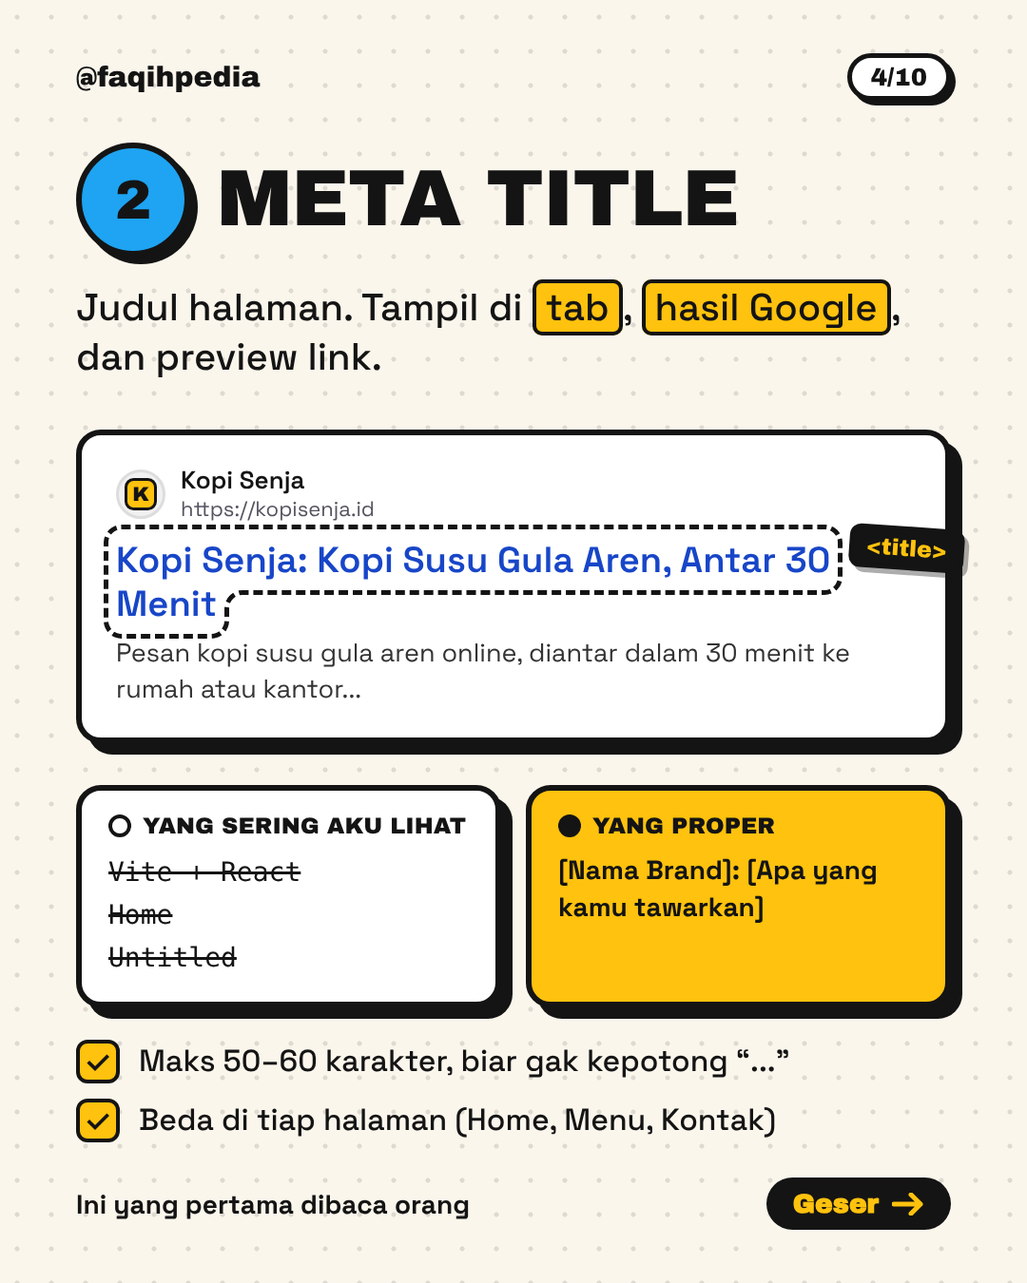
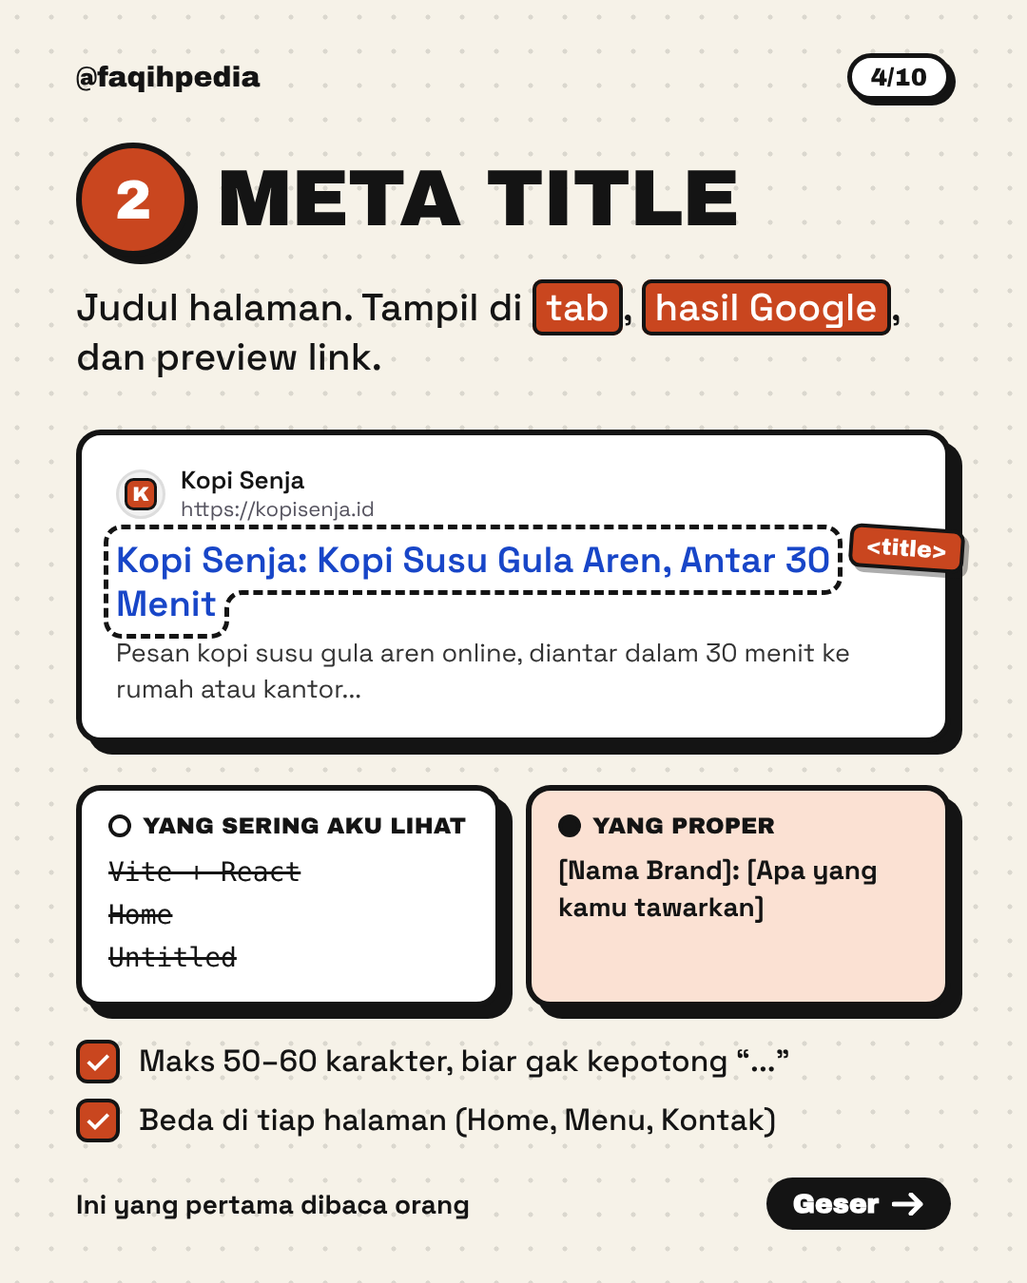
Carousel: cream + burnt-orange palette, new cover with fanned example cards
Claude-Session: https://claude.ai/code/session_018xRo3amBKB69FesK9psCXM

diff --git a/carousel-meta-tags/index.html b/carousel-meta-tags/index.html
@@ -11,18 +11,18 @@
 
 /*
   Palette: one accent only.
-  Retro-pop palette: cream base, yellow as the main accent, blue + red-orange as support.
-  All text is ink (or yellow/cream on ink): ink on yellow ~12:1, on blue ~7:1, on red ~5:1.
+  Warm minimal palette: cream base, ink text, one burnt-orange accent (+ a light orange tint for surfaces).
+  Text on orange is always white and large; small text sits on cream/white/tint (ink, ~15:1+).
   The only other colour is the link blue inside the UI mocks, because that is what real chat / search UIs look like.
 */
 :root {
-  --bg: #FBF6EC;
-  --bg2: #CDEBFF;
-  --blue: #1EA4F2;
-  --red: #EE4B2B;
+  --bg: #F6F2E8;
+  --bg2: #FBE1D3;
+  --cream2: #E9E2D0;
+  --acc: #C9461F;
+  --acc-l: #FF9466;
   --ink: #141414;
   --white: #FFFFFF;
-  --yellow: #FFC20E;
   --muted: #55535F;
   --link: #1846C8;
   --b: 6px;
@@ -40,44 +40,42 @@ body { background: #222; display: flex; flex-direction: column; align-items: cen
   padding: 150px 80px 130px;
   display: flex; flex-direction: column;
 }
-.slide.red { background-color: var(--red); }
-.slide.yellow { background-color: var(--yellow); background-image: radial-gradient(rgba(20,20,20,.14) 2.5px, transparent 2.6px); }
+.slide.plain { background-image: none; }
 
 /* chrome: top + bottom bars */
 .top { position: absolute; top: 56px; left: 80px; right: 80px; display: flex; justify-content: space-between; align-items: center; }
 .handle { font-family: var(--head); font-size: 30px; }
 .count { font-family: var(--head); font-size: 26px; background: var(--white); border: 5px solid var(--ink); border-radius: 999px; padding: 6px 20px; box-shadow: 5px 5px 0 var(--ink); }
 .bottom { position: absolute; bottom: 56px; left: 80px; right: 80px; display: flex; justify-content: space-between; align-items: center; font-weight: 700; font-size: 28px; }
-.swipe { font-family: var(--head); font-size: 28px; background: var(--ink); color: var(--yellow); border-radius: 999px; padding: 12px 28px; display: flex; gap: 14px; align-items: center; }
+.swipe { font-family: var(--head); font-size: 28px; background: var(--ink); color: var(--white); border-radius: 999px; padding: 12px 28px; display: flex; gap: 14px; align-items: center; }
 
 /* blocks */
 .box { background: var(--white); border: var(--b) solid var(--ink); border-radius: 26px; box-shadow: 12px 12px 0 var(--ink); padding: 30px 36px; }
 .sticker { display: inline-block; font-family: var(--head); text-transform: uppercase; border: 5px solid var(--ink); border-radius: 16px; box-shadow: 7px 7px 0 var(--ink); padding: 10px 24px; font-size: 34px; white-space: nowrap; background: var(--white); }
-.sticker.dark { background: var(--ink); color: var(--yellow); }
-.mark { background: var(--yellow); color: var(--ink); border: 4px solid var(--ink); border-radius: 10px; padding: 0 10px; box-decoration-break: clone; -webkit-box-decoration-break: clone; }
-.mark.inv { background: var(--ink); color: var(--yellow); }
+.sticker.dark { background: var(--ink); color: var(--white); }
+.mark { background: var(--acc); color: var(--white); border: 4px solid var(--ink); border-radius: 10px; padding: 0 10px; box-decoration-break: clone; -webkit-box-decoration-break: clone; }
 
 h1 { font-family: var(--head); font-weight: 400; font-size: 100px; line-height: 1.04; letter-spacing: -1px; text-transform: uppercase; }
 h2 { font-family: var(--head); font-weight: 400; font-size: 84px; line-height: 1.04; text-transform: uppercase; letter-spacing: -1px; }
 .lead { font-size: 40px; line-height: 1.3; font-weight: 500; }
 .small { font-size: 30px; line-height: 1.35; }
-.num { width: 120px; height: 120px; border: var(--b) solid var(--ink); border-radius: 50%; background: var(--yellow); box-shadow: 8px 8px 0 var(--ink); font-family: var(--head); font-size: 58px; display: grid; place-items: center; flex: none; }
+.num { width: 120px; height: 120px; border: var(--b) solid var(--ink); border-radius: 50%; background: var(--acc); color: var(--white); box-shadow: 8px 8px 0 var(--ink); font-family: var(--head); font-size: 58px; display: grid; place-items: center; flex: none; }
 .row { display: flex; gap: 28px; align-items: center; }
 .mono { font-family: "DejaVu Sans Mono", ui-monospace, monospace; }
 .code { background: var(--ink); color: var(--white); border-radius: 18px; padding: 22px 28px; font-size: 25px; line-height: 1.55; font-family: "DejaVu Sans Mono", ui-monospace, monospace; border: var(--b) solid var(--ink); box-shadow: 10px 10px 0 rgba(20,20,20,.3); }
 .code .a { color: #8FD3FF; }
-.code .s { color: var(--yellow); }
-.tag { position: absolute; font-family: var(--head); font-size: 24px; background: var(--ink); color: var(--yellow); border: 4px solid var(--ink); border-radius: 12px; padding: 6px 14px; box-shadow: 5px 5px 0 rgba(20,20,20,.35); white-space: nowrap; }
+.code .s { color: var(--acc-l); }
+.tag { position: absolute; font-family: var(--head); font-size: 24px; background: var(--acc); color: var(--white); border: 4px solid var(--ink); border-radius: 12px; padding: 6px 14px; box-shadow: 5px 5px 0 rgba(20,20,20,.35); white-space: nowrap; }
 .tag.light { background: var(--white); color: var(--ink); box-shadow: 5px 5px 0 var(--ink); }
 .tips { display: flex; flex-direction: column; gap: 18px; }
 .tip { display: flex; gap: 20px; align-items: flex-start; font-size: 32px; line-height: 1.3; font-weight: 500; }
-.tip i { flex: none; width: 46px; height: 46px; border: 4px solid var(--ink); border-radius: 12px; background: var(--yellow); display: grid; place-items: center; font-style: normal; font-weight: 700; margin-top: -2px; }
-.tip i.w { background: var(--white); }
+.tip i { flex: none; width: 46px; height: 46px; border: 4px solid var(--ink); border-radius: 12px; background: var(--acc); color: var(--white); display: grid; place-items: center; font-style: normal; font-weight: 700; margin-top: -2px; }
+.tip i.w { background: var(--white); color: var(--ink); }
 
 /* chat mock */
 .chat { background: #F7F6FB; border: var(--b) solid var(--ink); border-radius: 30px; box-shadow: 12px 12px 0 var(--ink); overflow: hidden; }
 .chat-head { background: var(--ink); color: var(--white); padding: 20px 28px; display: flex; gap: 18px; align-items: center; font-weight: 700; font-size: 28px; }
-.ava { width: 52px; height: 52px; border-radius: 50%; background: var(--blue); border: 3px solid var(--white); }
+.ava { width: 52px; height: 52px; border-radius: 50%; background: var(--acc); border: 3px solid var(--white); }
 .chat-body { padding: 26px; display: flex; flex-direction: column; gap: 16px; }
 .bubble { align-self: flex-end; background: var(--bg2); border: 4px solid var(--ink); border-radius: 22px 22px 6px 22px; padding: 16px 20px; font-size: 28px; max-width: 92%; }
 .bubble.in { align-self: flex-start; background: var(--white); border-radius: 22px 22px 22px 6px; }
@@ -94,17 +92,17 @@ h2 { font-family: var(--head); font-weight: 400; font-size: 84px; line-height: 1
 .og .og-logo, .og .og-h { position: relative; z-index: 1; }
 .og .og-logo { display: flex; gap: 12px; align-items: center; font-family: var(--head); font-size: 1.1em; }
 .og .og-h { font-family: var(--head); font-size: 2.2em; line-height: 1.02; margin-top: .3em; text-transform: uppercase; }
-.og .og-h span { color: var(--yellow); }
-.og .blob { position: absolute; right: -12%; top: -22%; width: 42%; aspect-ratio: 1; border-radius: 50%; background: var(--blue); border: 5px solid var(--white); }
-.og .blob2 { position: absolute; right: 8%; bottom: -24%; width: 26%; aspect-ratio: 1; border-radius: 30%; background: var(--red); border: 5px solid var(--white); transform: rotate(18deg); }
+.og .og-h span { color: var(--acc-l); }
+.og .blob { position: absolute; right: -12%; top: -22%; width: 42%; aspect-ratio: 1; border-radius: 50%; background: var(--acc); border: 5px solid var(--white); }
+.og .blob2 { position: absolute; right: 8%; bottom: -24%; width: 26%; aspect-ratio: 1; border-radius: 30%; background: var(--bg2); border: 5px solid var(--white); transform: rotate(18deg); }
 
 /* fictional brand logo used in mocks */
-.logo { width: 1em; height: 1em; border-radius: 28%; background: var(--yellow); border: .1em solid var(--ink); display: grid; place-items: center; font-family: var(--head); color: var(--ink); flex: none; line-height: 1; }
+.logo { width: 1em; height: 1em; border-radius: 28%; background: var(--acc); border: .1em solid var(--ink); display: grid; place-items: center; font-family: var(--head); color: var(--white); flex: none; line-height: 1; }
 .logo b { font-size: .62em; font-weight: 400; }
 
 /* browser tabs */
 .browser { border: var(--b) solid var(--ink); border-radius: 26px; overflow: hidden; box-shadow: 12px 12px 0 var(--ink); background: var(--white); }
-.tabs { background: var(--blue); display: flex; align-items: flex-end; gap: 6px; padding: 18px 18px 0; border-bottom: var(--b) solid var(--ink); }
+.tabs { background: var(--cream2); display: flex; align-items: flex-end; gap: 6px; padding: 18px 18px 0; border-bottom: var(--b) solid var(--ink); }
 .tabx { display: flex; gap: 14px; align-items: center; padding: 16px 20px; font-size: 26px; font-weight: 600; border: 4px solid var(--ink); border-bottom: none; border-radius: 16px 16px 0 0; background: var(--bg2); white-space: nowrap; max-width: 330px; overflow: hidden; }
 .tabx.on { background: var(--white); margin-bottom: -6px; padding-bottom: 22px; }
 .tabx span { overflow: hidden; text-overflow: ellipsis; }
@@ -125,7 +123,12 @@ h2 { font-family: var(--head); font-weight: 400; font-size: 84px; line-height: 1
 .vs { display: grid; grid-template-columns: 1fr 1fr; gap: 26px; }
 .label { font-family: var(--head); font-size: 28px; text-transform: uppercase; margin-bottom: 14px; display: flex; gap: 12px; align-items: center; }
 .dot { width: 24px; height: 24px; border-radius: 50%; border: 4px solid var(--ink); background: var(--white); flex: none; }
-.dot.on { background: var(--yellow); }
+.dot.on { background: var(--acc); }
+
+/* cover fan cards */
+.fan { position: absolute; width: 330px; background: var(--white); border: 5px solid var(--ink); border-radius: 26px; padding: 24px 22px 22px; box-shadow: 0 24px 40px rgba(20,20,20,.18); }
+.chip { display: inline-block; background: var(--ink); color: var(--white); font-family: var(--head); font-size: 20px; text-transform: uppercase; border-radius: 999px; padding: 6px 16px; }
+.fan-cap { font-family: var(--head); font-size: 24px; line-height: 1.15; text-transform: uppercase; margin-top: 18px; text-align: left; }
 
 /* CTA buttons */
 .cta { display: flex; align-items: center; gap: 30px; background: var(--white); border: var(--b) solid var(--ink); border-radius: 28px; box-shadow: 12px 12px 0 var(--ink); padding: 26px 32px; }
@@ -137,34 +140,45 @@ h2 { font-family: var(--head); font-weight: 400; font-size: 84px; line-height: 1
 <body>
 
 <!-- ============================================================ 1. COVER -->
-<section class="slide red" id="s1">
-  <div class="top"><div class="handle count" style="font-size:28px;">@faqihpedia</div><div class="count">1/10</div></div>
-
-  <div class="sticker" style="background:var(--yellow); transform:rotate(-3deg); align-self:flex-start; font-size:30px;">Catatan buat vibe coder</div>
-
-  <h1 style="margin-top:32px; font-size:110px; line-height:1;">Stop share<br>web kayak<br><span class="mark inv">gini.</span></h1>
-
-  <p class="lead box" style="margin-top:30px; font-size:34px; font-weight:600; padding:20px 28px; box-shadow:8px 8px 0 var(--ink); align-self:flex-start;">Aku sering lihat web hasil vibe coding dishare,<br>tapi tampilan luarnya gak proper.</p>
-
-  <div style="position:relative; margin-top:40px;">
-    <div class="chat" style="width:760px; transform:rotate(-2deg); background:var(--bg);">
-      <div class="chat-head" style="background:var(--white); color:var(--ink); border-bottom:var(--b) solid var(--ink);">
-        <span style="display:flex; gap:10px;"><i style="width:22px;height:22px;border-radius:50%;border:3px solid var(--ink);background:var(--red)"></i><i style="width:22px;height:22px;border-radius:50%;border:3px solid var(--ink);background:var(--yellow)"></i><i style="width:22px;height:22px;border-radius:50%;border:3px solid var(--ink);background:var(--blue)"></i></span>
-        <span style="margin-left:10px;">Grup Kantor</span></div>
-      <div class="chat-body">
-        <div class="bubble">Guys cobain web baru aku dong
-          <div class="link" style="margin-top:6px;">https://my-app-v2-final-fix.vercel.app</div>
-          <div class="meta-time">21.04</div></div>
-        <div class="bubble in" style="font-size:26px;">ini link apa? aman ga?</div>
-      </div>
-    </div>
-    <div style="position:absolute; right:-40px; top:-100px; width:310px; height:310px; transform:rotate(12deg);">
-      <svg width="310" height="310" viewBox="0 0 220 220"><polygon points="210.0,110.0 182.1,126.5 200.1,153.4 167.9,156.1 172.3,188.2 142.1,176.7 132.3,207.5 110.0,184.0 87.7,207.5 77.9,176.7 47.7,188.2 52.1,156.1 19.9,153.4 37.9,126.5 10.0,110.0 37.9,93.5 19.9,66.6 52.1,63.9 47.7,31.8 77.9,43.3 87.7,12.5 110.0,36.0 132.3,12.5 142.1,43.3 172.3,31.8 167.9,63.9 200.1,66.6 182.1,93.5" fill="#FFC20E" stroke="#141414" stroke-width="5" stroke-linejoin="round"/></svg>
-      <div style="position:absolute; inset:0; display:grid; place-items:center; text-align:center; font-family:var(--head); font-size:36px; line-height:1.05;">GAK<br>PROPER!</div>
-    </div>
+<section class="slide plain" id="s1" style="align-items:center; text-align:center;">
+  <div class="top">
+    <div class="row" style="gap:14px;"><span class="logo" style="font-size:46px; border-radius:50%;"><b>F</b></span><div style="text-align:left;"><div class="handle" style="font-size:26px;">@faqihpedia</div><div style="font-size:20px; color:var(--muted); font-weight:600;">Catatan buat vibe coder</div></div></div>
+    <svg width="64" height="64" viewBox="0 0 64 64" fill="none" stroke="#141414" stroke-width="4" stroke-linecap="round" stroke-linejoin="round"><path d="M24 34V12a5 5 0 0110 0v16l12 3a6 6 0 014 7l-3 14a8 8 0 01-8 6H30a8 8 0 01-6-3l-9-11a5 5 0 017-7z"/><path d="M12 16a14 14 0 0126-6M44 10l-4 4-5-2"/></svg>
   </div>
 
-  <div class="bottom"><div class="count" style="font-family:var(--body); font-weight:700; font-size:28px; padding:10px 24px;">4 hal yang sering lupa diminta ke AI</div><div class="swipe">Geser <svg width="34" height="24" viewBox="0 0 34 24"><path d="M2 12h28M20 2l10 10-10 10" stroke="currentColor" stroke-width="5" fill="none" stroke-linecap="round" stroke-linejoin="round"/></svg></div></div>
+  <p style="font-size:34px; font-weight:600; color:var(--muted); margin-top:30px;">Aku sering lihat web hasil vibe coding yang…</p>
+  <h1 style="font-size:90px; line-height:1.02; margin-top:26px; letter-spacing:-2px; white-space:nowrap;">Bagus dalamnya,</h1>
+  <div style="position:relative; margin-top:18px;">
+    <div style="display:inline-block; background:var(--acc); color:var(--white); font-family:var(--head); font-size:100px; line-height:1; text-transform:uppercase; padding:16px 34px 22px; letter-spacing:-2px;">Gak proper<br>luarnya</div>
+    <svg style="position:absolute; right:-74px; bottom:-44px;" width="78" height="82" viewBox="0 0 78 82"><path d="M6 6l64 26-28 9-9 30z" fill="#FBE1D3" stroke="#141414" stroke-width="5" stroke-linejoin="round"/></svg>
+  </div>
+
+  <!-- soft stage -->
+  <div style="position:absolute; left:-200px; right:-200px; bottom:-560px; height:900px; border-radius:50%; background:radial-gradient(closest-side, #FFFFFF 62%, #EFE9DB 100%); box-shadow:0 -30px 60px rgba(20,20,20,.08);"></div>
+
+  <!-- fanned cards: what "tampilan luar" looks like when it's not done -->
+  <div style="position:absolute; left:0; right:0; top:680px; height:560px;">
+    <div class="fan" style="left:18px; top:120px; width:300px; transform:rotate(-12deg);">
+      <div class="chip">Di tab</div>
+      <div style="background:var(--cream2); border:4px solid var(--ink); border-radius:14px 14px 0 0; padding:12px 14px; display:flex; gap:10px; align-items:center; font-weight:600; font-size:22px; margin-top:22px;"><div class="blank" style="width:24px;height:24px;"></div>Vite + React</div>
+      <div style="border:4px solid var(--ink); border-top:none; border-radius:0 0 14px 14px; height:120px; background:var(--white);"></div>
+      <p class="fan-cap">Ikon kosong, judul bawaan</p>
+    </div>
+    <div class="fan" style="left:50%; top:0; transform:translateX(-50%); width:420px; z-index:2;">
+      <div class="chip">Di chat</div>
+      <div class="bubble" style="margin-top:22px; font-size:21px; max-width:100%; text-align:left;"><div class="link" style="word-break:normal; white-space:nowrap;">my-app-v2-final-fix.vercel.app</div><div class="meta-time" style="font-size:17px;">21.04</div></div>
+      <div class="bubble in" style="margin-top:12px; font-size:22px; text-align:left;">ini link apa? aman ga?</div>
+      <p class="fan-cap">Cuma URL, tanpa preview</p>
+    </div>
+    <div class="fan" style="right:18px; top:120px; width:300px; transform:rotate(12deg);">
+      <div class="chip">Di Google</div>
+      <div style="text-align:left; margin-top:22px; border:4px solid var(--ink); border-radius:14px; padding:14px 16px; background:var(--white);">
+        <div style="color:var(--link); font-weight:700; font-size:24px;">Vite App</div>
+        <div style="font-size:18px; color:#333; line-height:1.35; margin-top:6px;">Loading... Menu Home Cookie settings Accept all...</div>
+      </div>
+      <p class="fan-cap">Deskripsi ngacak</p>
+    </div>
+  </div>
 </section>
 
 <!-- ============================================================ 2. WHAT "TAMPILAN LUAR" MEANS -->
@@ -245,7 +259,7 @@ h2 { font-family: var(--head); font-weight: 400; font-size: 84px; line-height: 1
 <section class="slide" id="s4">
   <div class="top"><div class="handle">@faqihpedia</div><div class="count">4/10</div></div>
 
-  <div class="row"><div class="num" style="background:var(--blue)">2</div><h2>Meta title</h2></div>
+  <div class="row"><div class="num">2</div><h2>Meta title</h2></div>
   <p class="lead" style="margin-top:28px;">Judul halaman. Tampil di <span class="mark">tab</span>, <span class="mark">hasil Google</span>, dan preview link.</p>
 
   <div class="box serp" style="margin-top:50px; position:relative;">
@@ -260,7 +274,7 @@ h2 { font-family: var(--head); font-weight: 400; font-size: 84px; line-height: 1
       <div class="label" style="font-size:24px;"><span class="dot"></span>Yang sering aku lihat</div>
       <div class="mono" style="font-size:28px; line-height:1.6; text-decoration:line-through; text-decoration-thickness:3px;">Vite + React<br>Home<br>Untitled</div>
     </div>
-    <div class="box" style="background:var(--yellow); padding:24px 28px;">
+    <div class="box" style="background:var(--bg2); padding:24px 28px;">
       <div class="label" style="font-size:24px;"><span class="dot" style="background:var(--ink)"></span>Yang proper</div>
       <div style="font-size:28px; line-height:1.4; font-weight:700;">[Nama Brand]: [Apa yang kamu tawarkan]</div>
     </div>
@@ -278,7 +292,7 @@ h2 { font-family: var(--head); font-weight: 400; font-size: 84px; line-height: 1
 <section class="slide" id="s5">
   <div class="top"><div class="handle">@faqihpedia</div><div class="count">5/10</div></div>
 
-  <div class="row"><div class="num" style="background:var(--red)">3</div><h2>Meta<br>description</h2></div>
+  <div class="row"><div class="num">3</div><h2>Meta<br>description</h2></div>
   <p class="lead" style="margin-top:28px;">Kalimat ringkas di bawah judul. Ini <span class="mark">“iklan gratis”</span> web kamu di Google.</p>
 
   <div class="label" style="margin-top:44px;"><span class="dot"></span>Kalau lupa diisi</div>
@@ -348,11 +362,11 @@ h2 { font-family: var(--head); font-weight: 400; font-size: 84px; line-height: 1
       <div><div style="font-family:var(--head); font-size:36px; text-transform:uppercase;">Google paham isinya</div><div class="small" style="margin-top:6px;">Title jadi petunjuk utama halaman ini tentang apa.</div></div>
     </div>
     <div class="box row" style="padding:26px 32px; gap:26px; align-items:flex-start;">
-      <div class="num" style="width:84px; height:84px; font-size:40px; box-shadow:5px 5px 0 var(--ink); background:var(--blue);">B</div>
+      <div class="num" style="width:84px; height:84px; font-size:40px; box-shadow:5px 5px 0 var(--ink);">B</div>
       <div><div style="font-family:var(--head); font-size:36px; text-transform:uppercase;">Lebih banyak yang klik</div><div class="small" style="margin-top:6px;">Judul + deskripsi yang jelas bikin orang milih link kamu.</div></div>
     </div>
     <div class="box row" style="padding:26px 32px; gap:26px; align-items:flex-start;">
-      <div class="num" style="width:84px; height:84px; font-size:40px; box-shadow:5px 5px 0 var(--ink); background:var(--red);">C</div>
+      <div class="num" style="width:84px; height:84px; font-size:40px; box-shadow:5px 5px 0 var(--ink);">C</div>
       <div><div style="font-family:var(--head); font-size:36px; text-transform:uppercase;">Kelihatan bisa dipercaya</div><div class="small" style="margin-top:6px;">Preview rapi = web serius, bukan link aneh.</div></div>
     </div>
   </div>
@@ -374,7 +388,7 @@ h2 { font-family: var(--head); font-weight: 400; font-size: 84px; line-height: 1
 <span class="s">3.</span> Meta description 140-160 karakter,<br>&nbsp;&nbsp;&nbsp;isinya manfaat + ajakan<br><br>
 <span class="s">4.</span> OG image 1200x630 + tag og:title,<br>&nbsp;&nbsp;&nbsp;og:description, og:image (URL absolut),<br>&nbsp;&nbsp;&nbsp;og:url, twitter:card=summary_large_image<br><br>
 <span class="a">Taruh semua di &lt;head&gt;.</span>
-    <div class="tag" style="right:-18px; top:-24px; background:var(--yellow); color:var(--ink); transform:rotate(4deg); box-shadow:5px 5px 0 var(--ink);">SAVE SLIDE INI</div>
+    <div class="tag" style="right:-18px; top:-24px; background:var(--acc); color:var(--white); transform:rotate(4deg); box-shadow:5px 5px 0 var(--ink);">SAVE SLIDE INI</div>
   </div>
 
   <div class="bottom"><div>Ganti isi [ ] sesuai web kamu</div><div class="swipe">Geser <svg width="34" height="24" viewBox="0 0 34 24"><path d="M2 12h28M20 2l10 10-10 10" stroke="currentColor" stroke-width="5" fill="none" stroke-linecap="round" stroke-linejoin="round"/></svg></div></div>
@@ -405,23 +419,23 @@ h2 { font-family: var(--head); font-weight: 400; font-size: 84px; line-height: 1
 </section>
 
 <!-- ============================================================ 10. CTA -->
-<section class="slide yellow" id="s10">
+<section class="slide" id="s10">
   <div class="top"><div class="handle">@faqihpedia</div><div class="count">10/10</div></div>
 
-  <h1 style="font-size:92px;">Biar web kamu<br>dilihat orang<br><span class="mark inv">udah proper.</span></h1>
+  <h1 style="font-size:92px;">Biar web kamu<br>dilihat orang<br><span class="mark">udah proper.</span></h1>
   <p class="lead" style="margin-top:28px;">Bukan cuma pas dibuka, tapi juga pas dishare.</p>
 
   <div style="display:flex; flex-direction:column; gap:28px; margin-top:52px;">
     <div class="cta">
-      <div class="ic"><svg width="62" height="56" viewBox="0 0 62 56"><path d="M31 52S4 36 4 18A13 13 0 0131 11a13 13 0 0127 7c0 18-27 34-27 34z" fill="#EE4B2B" stroke="#EE4B2B" stroke-width="4" stroke-linejoin="round"/></svg></div>
+      <div class="ic"><svg width="62" height="56" viewBox="0 0 62 56"><path d="M31 52S4 36 4 18A13 13 0 0131 11a13 13 0 0127 7c0 18-27 34-27 34z" fill="#FF9466" stroke="#FF9466" stroke-width="4" stroke-linejoin="round"/></svg></div>
       <div><div class="t1">Like</div><div class="t2">kalau kamu pernah lupa salah satunya</div></div>
     </div>
     <div class="cta">
-      <div class="ic"><svg width="46" height="58" viewBox="0 0 46 58"><path d="M4 4h38v50L23 40 4 54z" fill="#FFC20E" stroke="#FFC20E" stroke-width="4" stroke-linejoin="round"/></svg></div>
+      <div class="ic"><svg width="46" height="58" viewBox="0 0 46 58"><path d="M4 4h38v50L23 40 4 54z" fill="#FF9466" stroke="#FF9466" stroke-width="4" stroke-linejoin="round"/></svg></div>
       <div><div class="t1">Save</div><div class="t2">buat checklist project berikutnya</div></div>
     </div>
     <div class="cta">
-      <div class="ic"><svg width="62" height="56" viewBox="0 0 62 56"><circle cx="24" cy="16" r="11" fill="#1EA4F2"/><path d="M4 52c0-12 9-20 20-20s20 8 20 20z" fill="#1EA4F2"/><path d="M51 18v20M41 28h20" stroke="#1EA4F2" stroke-width="6" stroke-linecap="round"/></svg></div>
+      <div class="ic"><svg width="62" height="56" viewBox="0 0 62 56"><circle cx="24" cy="16" r="11" fill="#FF9466"/><path d="M4 52c0-12 9-20 20-20s20 8 20 20z" fill="#FF9466"/><path d="M51 18v20M41 28h20" stroke="#FF9466" stroke-width="6" stroke-linecap="round"/></svg></div>
       <div><div class="t1">Follow</div><div class="t2">buat tips vibe coding lainnya</div></div>
     </div>
   </div>

diff --git a/README.md b/README.md
@@ -91,7 +91,7 @@ npm run render -- --browser-executable=<chrome-headless-shell>
 
 ## Carousel IG: meta tags untuk vibe coder (1080×1350, 10 slide)
 
-`carousel-meta-tags/slides/01.png`–`10.png` is a ready-to-post carousel reminding vibe coders to ask their AI for a favicon, meta title, meta description and OG image. It uses the same neobrutalist building blocks as the videos above, in a retro-pop palette (cream, yellow, blue, red-orange) with ink text throughout for contrast.
+`carousel-meta-tags/slides/01.png`–`10.png` is a ready-to-post carousel reminding vibe coders to ask their AI for a favicon, meta title, meta description and OG image. It uses the same neobrutalist building blocks as the videos above, in a warm minimal palette (cream, ink, one burnt-orange accent); text on orange is always white and large.
 
 Edit the text in `carousel-meta-tags/index.html` (open it in a browser to preview), then re-export:
 
